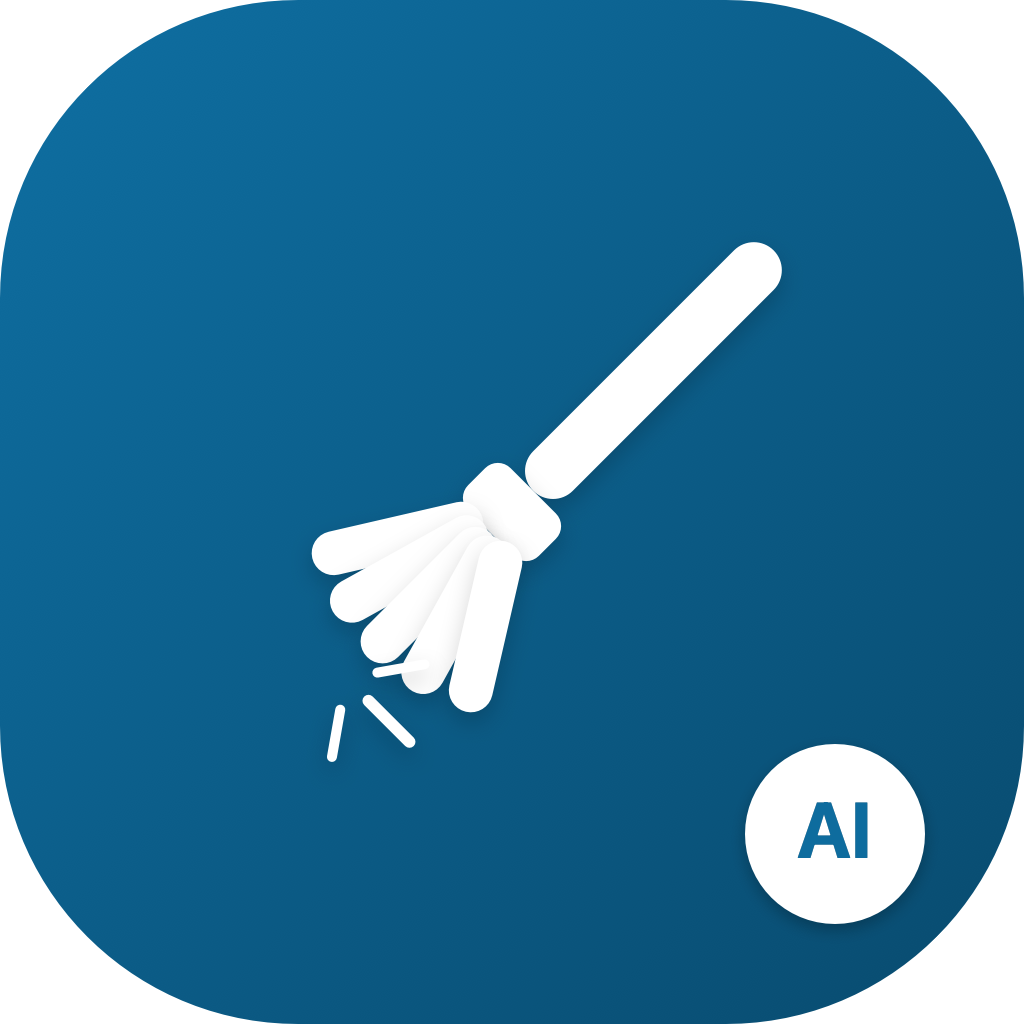
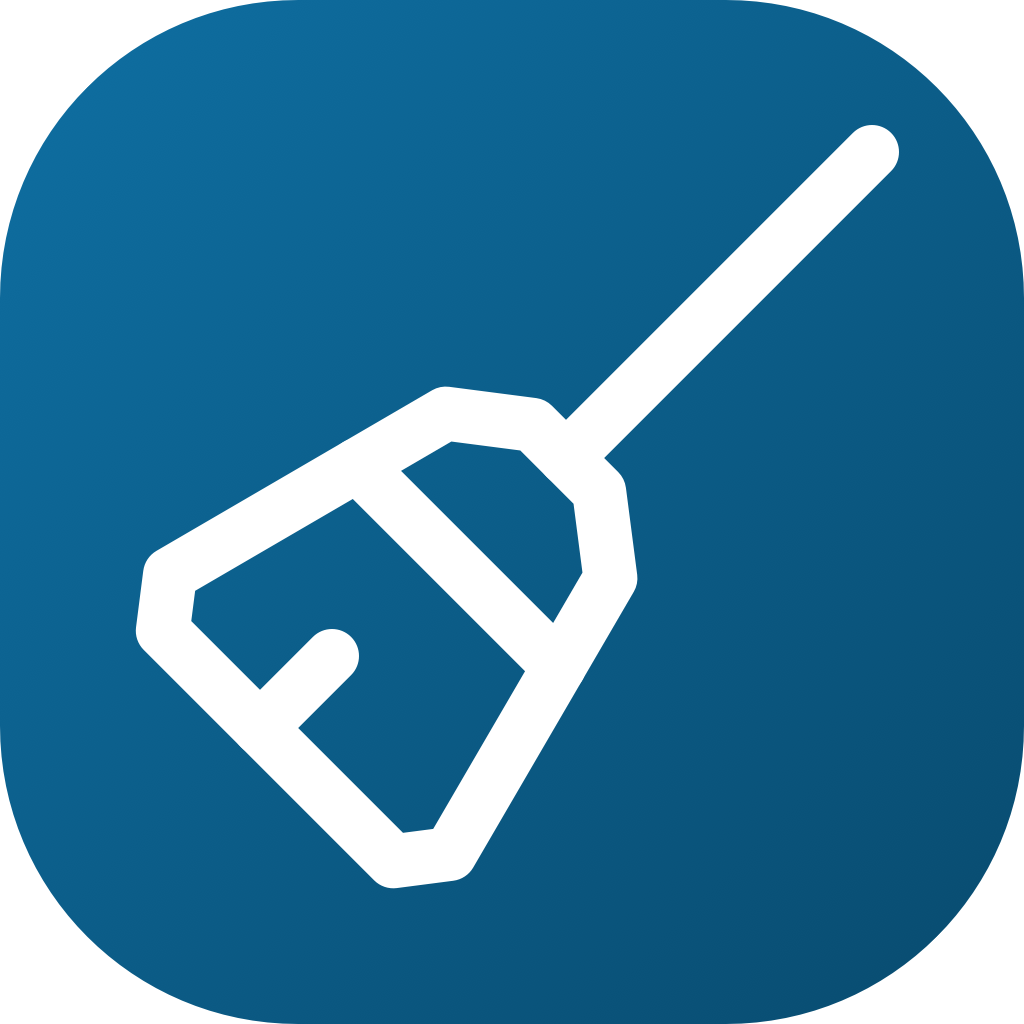
重绘应用图标：改用 Lucide 扫帚白描线条，移除实体扫帚与 AI 角标

Changed region(s): [[0.125, 0.375, 0.625, 0.875], [0.7188, 0.7188, 0.9062, 0.9062], [0.7188, 0.125, 0.875, 0.2812]]

diff --git a/Sources/IconGen/render.swift b/Sources/IconGen/render.swift
@@ -1,8 +1,11 @@
 #!/usr/bin/env swift
 import AppKit
 
-// Render the AI Mac Cleaner app icon (broom + sparkle on Petrol Blue gradient)
+// Render the AI Mac Cleaner app icon (Lucide broom outline on Petrol Blue gradient)
 // to a 1024x1024 PNG at Sources/IconGen/AIMacCleaner.png.
+//
+// The broom is the Lucide "broom" glyph (lucide-static v1.31.0), drawn as a white
+// outline. The previous solid broom and the "AI" corner badge have been removed.
 
 let size = NSSize(width: 1024, height: 1024)
 let image = NSImage(size: size, flipped: false) { _ in
@@ -19,134 +22,57 @@ let image = NSImage(size: size, flipped: false) { _ in
     )!
     gradient.draw(in: path, angle: 315)
 
-    // Draw the white broom + sparkle icon
+    // Draw the Lucide broom as a white outline, centered in the canvas.
     let ctx = NSGraphicsContext.current!
     ctx.saveGraphicsState()
 
-    // Center the icon and tilt the broom diagonally
-    let transform = NSAffineTransform()
-    transform.translateX(by: size.width / 2, yBy: size.height / 2)
-    transform.rotate(byDegrees: -45)
-    transform.concat()
+    // Map Lucide's 24x24 coordinate space into the 1024 canvas, centered.
+    // y is flipped so the glyph keeps its natural on-screen orientation
+    // (handle up-right, bristle head down-left).
+    let S: CGFloat = 36
+    let t = NSAffineTransform()
+    t.translateX(by: size.width / 2 - S * 12, yBy: size.height / 2 + S * 12)
+    t.scaleX(by: S, yBy: -S)
+    t.concat()
 
-    // Soft drop shadow for depth
-    let shadow = NSShadow()
-    shadow.shadowOffset = NSSize(width: 0, height: -10)
-    shadow.shadowBlurRadius = 24
-    shadow.shadowColor = NSColor.black.withAlphaComponent(0.18)
-    shadow.set()
+    NSColor.white.setStroke()
+    let lw: CGFloat = 1.5
 
-    let white = NSColor.white
-    white.setFill()
+    // Broom head: Lucide outline. The original arcs are approximated by round
+    // joins, which read cleanly at icon scale.
+    let headPts: [NSPoint] = [
+        NSPoint(x: 14.734, y: 13.841),
+        NSPoint(x: 14.42,  y: 11.421),
+        NSPoint(x: 12.58,  y: 9.58),
+        NSPoint(x: 10.159, y: 9.266),
+        NSPoint(x: 2.502,  y: 13.727),
+        NSPoint(x: 2.3,    y: 15.3),
+        NSPoint(x: 8.703,  y: 21.703),
+        NSPoint(x: 10.274, y: 21.499)
+    ]
+    let head = NSBezierPath()
+    head.move(to: headPts[0])
+    for i in 1..<headPts.count { head.line(to: headPts[i]) }
+    head.close()
+    head.lineWidth = lw
+    head.lineJoinStyle = .round
+    head.lineCapStyle = .round
+    head.stroke()
 
+    func strokeSeg(_ a: NSPoint, _ b: NSPoint) {
+        let p = NSBezierPath()
+        p.move(to: a)
+        p.line(to: b)
+        p.lineWidth = lw
+        p.lineCapStyle = .round
+        p.lineJoinStyle = .round
+        p.stroke()
+    }
     // Handle
-    let handlePath = NSBezierPath(
-        roundedRect: NSRect(x: -28, y: 30, width: 56, height: 340),
-        xRadius: 28,
-        yRadius: 28
-    )
-    handlePath.fill()
-
-    // Collar
-    let collarPath = NSBezierPath(
-        roundedRect: NSRect(x: -50, y: -30, width: 100, height: 60),
-        xRadius: 18,
-        yRadius: 18
-    )
-    collarPath.fill()
-
-    // Bristles: five rounded rectangles fanning out from the collar
-    let bristleCount = 5
-    let maxAngle = 32.0
-    for i in 0..<bristleCount {
-        let angle = -maxAngle + (Double(i) * 2 * maxAngle / Double(bristleCount - 1))
-
-        ctx.saveGraphicsState()
-        let bristleTransform = NSAffineTransform()
-        bristleTransform.rotate(byDegrees: angle)
-        bristleTransform.concat()
-
-        let bristlePath = NSBezierPath(
-            roundedRect: NSRect(x: -22, y: -205, width: 44, height: 175),
-            xRadius: 22,
-            yRadius: 22
-        )
-        bristlePath.fill()
-
-        ctx.restoreGraphicsState()
-    }
-
-    // Sparkle rays at the bristle tip
-    white.setStroke()
-    let rayConfig: [(angle: Double, length: CGFloat, width: CGFloat)] = [
-        (-55, 48, 10),
-        (0, 58, 12),
-        (55, 48, 10)
-    ]
-    let rayOrigin = NSPoint(x: 0, y: -235)
-    for cfg in rayConfig {
-        let rad = cfg.angle * .pi / 180
-        let start = NSPoint(
-            x: rayOrigin.x + cos(rad) * 32,
-            y: rayOrigin.y + sin(rad) * 32
-        )
-        let end = NSPoint(
-            x: rayOrigin.x + cos(rad) * (32 + cfg.length),
-            y: rayOrigin.y + sin(rad) * (32 + cfg.length)
-        )
-        let ray = NSBezierPath()
-        ray.move(to: start)
-        ray.line(to: end)
-        ray.lineWidth = cfg.width
-        ray.lineCapStyle = .round
-        ray.stroke()
-    }
-
-    ctx.restoreGraphicsState()
-
-    // AI badge in the bottom-right corner (white disc, Petrol Blue text)
-    ctx.saveGraphicsState()
-
-    let badgeCenter = NSPoint(x: 835, y: 190)
-    let badgeRadius: CGFloat = 90
-    let badgeRect = NSRect(
-        x: badgeCenter.x - badgeRadius,
-        y: badgeCenter.y - badgeRadius,
-        width: badgeRadius * 2,
-        height: badgeRadius * 2
-    )
-    let badgePath = NSBezierPath(
-        roundedRect: badgeRect,
-        xRadius: badgeRadius,
-        yRadius: badgeRadius
-    )
-
-    let badgeShadow = NSShadow()
-    badgeShadow.shadowOffset = NSSize(width: 0, height: -6)
-    badgeShadow.shadowBlurRadius = 16
-    badgeShadow.shadowColor = NSColor.black.withAlphaComponent(0.25)
-    badgeShadow.set()
-
-    NSColor.white.setFill()
-    badgePath.fill()
-
-    // Reset shadow before drawing the text
-    NSShadow().set()
-
-    let fontSize: CGFloat = 78
-    let font = NSFont.boldSystemFont(ofSize: fontSize)
-    let petrolBlue = NSColor(red: 0.0549, green: 0.4235, blue: 0.6196, alpha: 1.0)
-    let attrs: [NSAttributedString.Key: Any] = [
-        .font: font,
-        .foregroundColor: petrolBlue
-    ]
-    let text = "AI"
-    let textSize = (text as NSString).size(withAttributes: attrs)
-    let textOrigin = NSPoint(
-        x: badgeCenter.x - textSize.width / 2,
-        y: badgeCenter.y - textSize.height / 2 + 6
-    )
-    (text as NSString).draw(at: textOrigin, withAttributes: attrs)
+    strokeSeg(NSPoint(x: 13.5, y: 10.5), NSPoint(x: 22, y: 2))
+    // Bristle / binding detail lines
+    strokeSeg(NSPoint(x: 5, y: 18), NSPoint(x: 7, y: 16))
+    strokeSeg(NSPoint(x: 7.699, y: 10.7), NSPoint(x: 13.301, y: 16.301))
 
     ctx.restoreGraphicsState()
 
